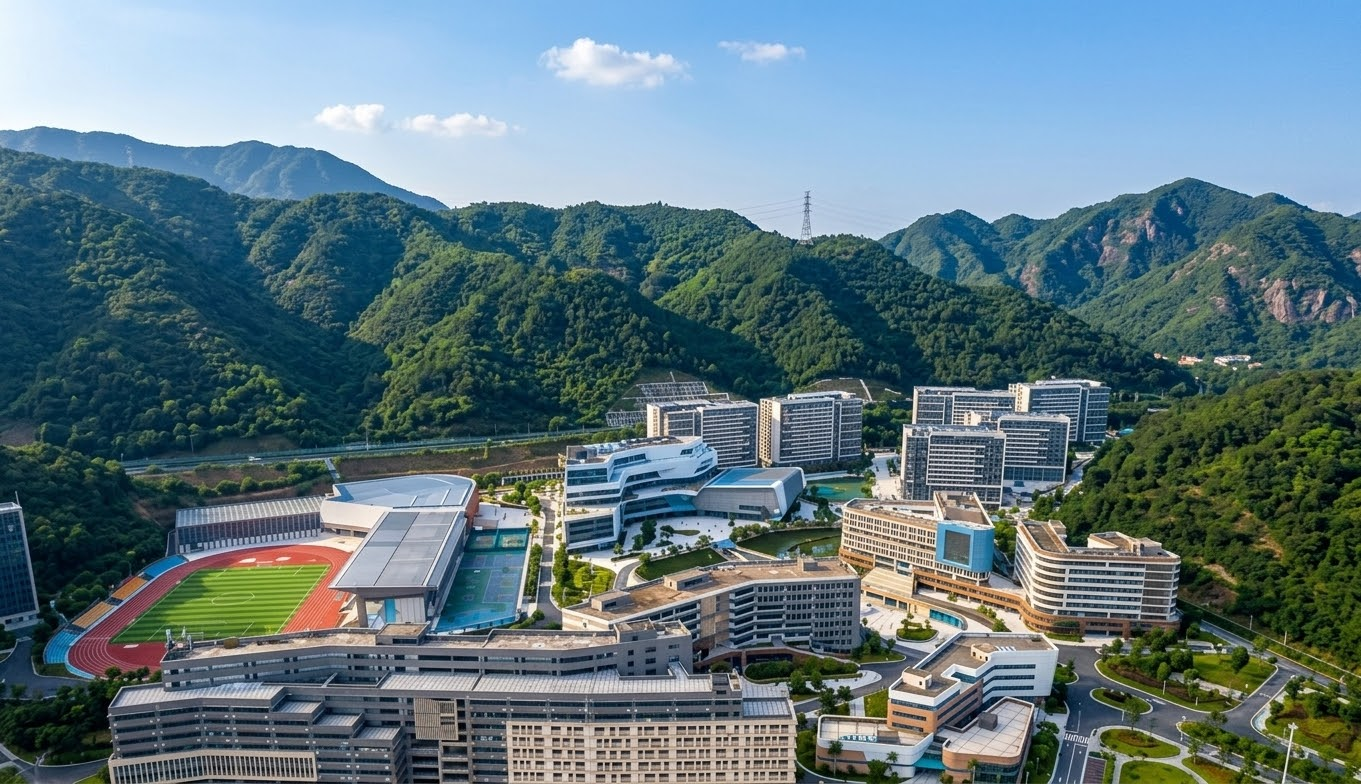
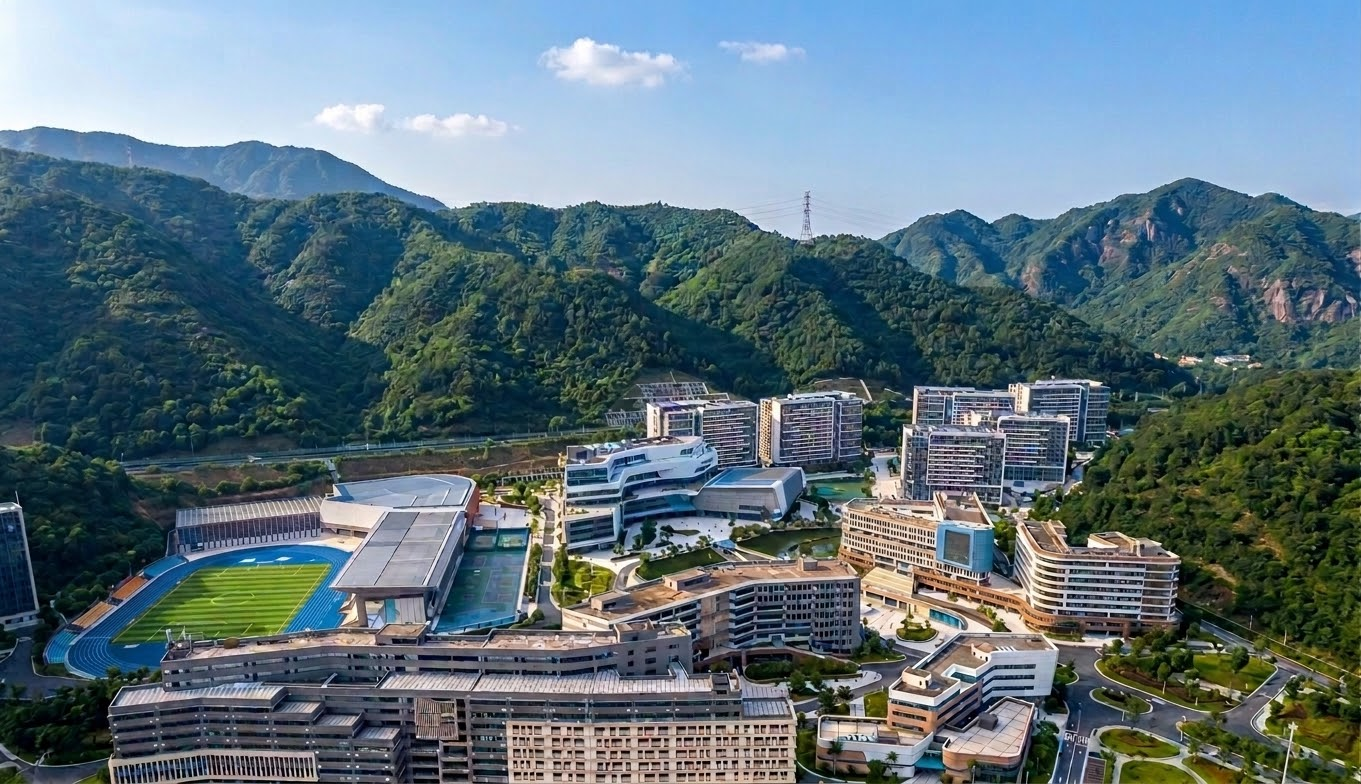
v0.9.40: 浅色模式背景换成用户给的校园日景航拍(深色那张不动)
用户给图 p1 点名「帮我在浅色模式的背景换成这个图」。**沿用原文件名
`frontend/img/campus_day.jpg`** —— `--hero-img` 的接线、spec 整目录收包、
"切主题即换景"那套机制一处没改,深色仍是原来那张暮色,改的只有浅色那一档。

新图 1361×784 与旧图同尺寸,EXIF 只有 Picasa 与方向(无 GPS、无机型),按字节原样
放进去,不重编码不掉质量。目视核对按 v0.9.07 那条老路子做:`_shot_themes.py` 起本地
http.server + 真 Chromium 各截一张 —— 浅色那张白玻璃上的顶栏/侧栏/chips/「小提示」
两行细字全部读得清,所以 `--hero-dim` 那条压暗曲线**没动**(观感是用户定的,不替他改)。
README 那句"全屏校园黄昏航拍做背景"顺手改成"浅色=日景、深色=暮色",它本来只说了
一半。前端 JS 两块语法闸绿;快车道 1635 passed / 1 skipped / 171 deselected(104 s)。

diff --git a/HANDOFF.md b/HANDOFF.md
@@ -451,6 +451,7 @@ cd /d/game/mini-code
     - **没跑的 `--live`**:方案 §2 第 8 条把行为评测定成"发版前手动那一道",要连内网模型、花真额度、还会读本机课表 —— **本轮一次都没跑**,脚本与断言引擎是拿假 LLM 测过的(绿 / 红 / 连不上三条出口都有断言)。下次谁要跑:`PYTHONIOENCODING=utf-8 ./.venv/Scripts/python.exe scripts/eval_behavior.py --live`(先 `--case date` 跑三条最便宜的)。**用例表会长厚**:每条都带 `note` 写明断言依据,误判的修法是**收窄断言**而不是放宽红线(方案 §8 那条)。
     - **没打包、没推远端、没发 Release**:`dist/` 里还是 v0.9.39 那次构建的产物。本轮**六组新冻结针**(`compaction: clip_history/schema_tokens/HISTORY_HEAD_CAP`、`session: refresh_system_prompt`、`agent: _refresh_clock/_wrap_up`、`config: max_steps`)要等下次 `check_frozen_version.py` 才验得到 —— 漏收的表现很隐蔽:装好的包里"跨天不刷新""压缩还是保尾丢头""阈值还是只数消息",而界面一切正常。
     - **零备份这条仍然成立**:本分支只有本地提交,`origin` 是本地路径 `D:/game/mini-code`(§7 第 5 条)。上一轮就提过 `git bundle` 到第二块磁盘,**还没做**。
+    - **顺带换的浅色背景(2026-09-25,用户给图 p1「浅色模式的背景换成这个图」)**:覆盖 `frontend/img/campus_day.jpg` **沿用原文件名** —— `--hero-img` 的接线、`packaging/gcode.spec` 整目录收包、以及"切主题即换景"那条机制一处没动,深色仍是他原来那张暮色。新图 1361×784 与旧图同尺寸、EXIF 只有 Picasa 与方向(无 GPS、无机型),所以按字节原样放进去,不重编码不掉质量。**目视核对做了**:`scripts/_shot_themes.py` 起本地 http.server + 真 Chromium 各截一张,浅色那张白玻璃上的顶栏/侧栏/chips/「小提示」两行细字全部读得清,`--hero-dim` 那条"顶部轻提亮、底部轻压暗"的曲线**没改**(改了就是替用户决定他要的观感);深色那张与换图前逐像素无关(同一张图)。
     - **方案里划掉的东西别"顺手补回来"**:每轮时钟行、分块 map-reduce 压缩、"剩 N 轮"运行中提醒、LLM 当裁判、统一 `web_profile.py` 的提示词、改 `calendar.py` 不带时间的设计 —— 六条各有理由,写在方案 §6「刻意不做」,推翻前先回读。
 
 

diff --git a/README.md b/README.md
@@ -4,7 +4,7 @@
 
 ## 功能
 
-- **桌面 GUI**:暮色玻璃风(全屏校园黄昏航拍做背景,侧栏/顶栏/气泡/工具卡都是磨砂玻璃层),深色/浅色一键切换;会话列表、Markdown 流式对话;**思考与工具调用收成一条可折叠的「工作过程」**(最终回复开始时自动收起,点标题行展开回看);**划词即弹「复制选区」**,消息右键有原生菜单(撤销/剪切/复制/粘贴/全选),Ctrl+C/V/X/A 正常可用
+- **桌面 GUI**:玻璃拟态风(**浅色=校园日景航拍、深色=同一校园的暮色航拍**,切主题即换景;侧栏/顶栏/气泡/工具卡都是磨砂玻璃层),深色/浅色一键切换;会话列表、Markdown 流式对话;**思考与工具调用收成一条可折叠的「工作过程」**(最终回复开始时自动收起,点标题行展开回看);**划词即弹「复制选区」**,消息右键有原生菜单(撤销/剪切/复制/粘贴/全选),Ctrl+C/V/X/A 正常可用
 - **后台任务**:新建任务 / 切换会话都**不会打断**正在跑的任务——每个会话有自己的运行器(独立 Agent 与会话上下文),旧任务转后台继续跑完;侧栏对应会话显示转圈与「运行中」,点它即可切回去看实时进度(模型、MCP 连接、沙箱策略在会话间共享,多开一个会话不会重复起进程)
 - **内置校园模型,开箱即用**:固定使用广州应用科技学院内网模型服务(`deepseek-v4-flash`),不需要填 API Key,界面也不提供模型切换入口(顶栏模型标识只展示;内网地址与 Key 都不下发前端)。**模型的上下文窗口与「是否支持视觉」由程序启动时自动向服务探测**(结论缓存一周),任务面板标签与压缩触发阈值据此自动对齐 —— 学校换模型/换网关不必改代码
 - **工作区(自己选文件夹)**:顶栏「📁 工作区」胶囊点开就能挑一个文件夹当 Agent 的工作台——读写围栏、附件 `uploads/`、计划 `plans/`、长期记忆 `memory/` 全部落在那个文件夹里;弹窗列出当前/默认与最近用过的 8 个(可一键移出列表,只动记录不删文件夹),「选择文件夹…」走系统原生对话框。CLI 用 `/workspace <路径>` 或启动参数 `--workspace` 拿到同一份记忆(详见「工作区」一节)
